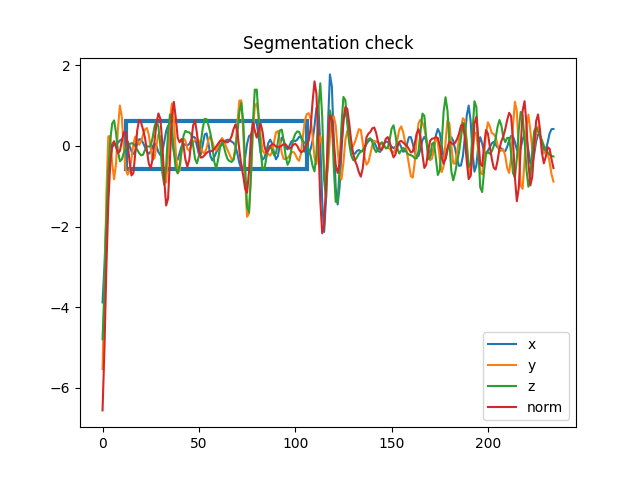
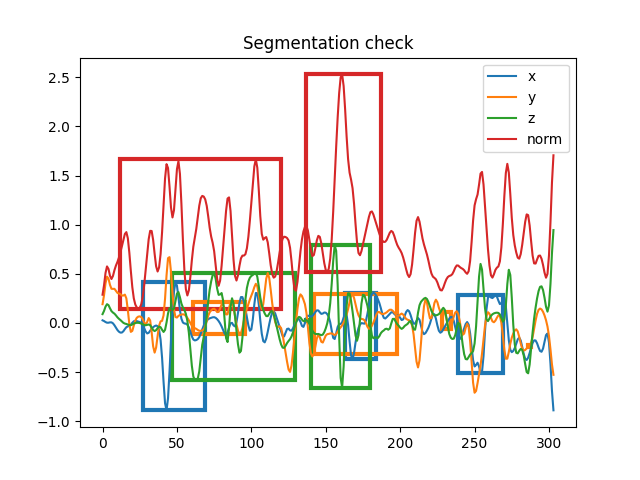
draft of function fo merging rectangle

diff --git a/main.py b/main.py
@@ -3,34 +3,40 @@ import mathsUtils as MATH
 import numpy as np
 import signalUtils as SIGNAL
 
-normalised_timestamp_acc, x_accel, y_accel, z_accel, x_gyros, y_gyros, z_gyros = TXT.reading_into_txt(
-        "data/unsegmented/S1/Recorder_2019_04_03_16_35/data.txt")
-freq = 100 # based on documentaion
-smoothing_factor = 12
-down_sampling_factor = freq // 30  # 100Hz to 30Hz
+if __name__ == "__main__":
 
-# PARAMETERS FOR THE REST OF THE CODE
-window_size = 20  # Size of the moving window for computing mean and standard deviation
-envelopp_multiplier = 3  # Multiplier for the standard deviation to determine the envelopp
-threshold_multiplier = 0.4 # if too low (<0.4), detection check shows ungesture instead of gesture, if too high, gesture are too much segmented
+        normalised_timestamp_acc, x_accel, y_accel, z_accel, x_gyros, y_gyros, z_gyros = TXT.reading_into_txt(
+                "data/unsegmented/S1/Recorder_2019_04_03_16_10/data.txt")
+        freq = 100 # based on documentaion
+        smoothing_factor = 12
+        down_sampling_factor = freq // 30  # 100Hz to 30Hz
 
-sigma = 2
+        # PARAMETERS FOR THE REST OF THE CODE
+        window_size = 30  # Size of the moving window for computing mean and standard deviation
+        envelopp_multiplier = 3  # Multiplier for the standard deviation to determine the envelopp
+        threshold_multiplier = 0.4 # if too low (<0.4), detection check shows ungesture instead of gesture, if too high, gesture are too much segmented
 
-# COMPUTATION
-downsampled_x_accel, downsampled_y_accel, downsampled_z_accel, num_samples = MATH.smooth_signal(x_accel, y_accel, z_accel,
-                                                                                                smoothing_factor, down_sampling_factor)
-downsampled_x_gyros, downsampled_y_gyros, downsampled_z_gyros, num_samples = MATH.smooth_signal(x_gyros, y_gyros, z_gyros,
-                                                                                                smoothing_factor, down_sampling_factor)
+        sigma = 2
+
+        # COMPUTATION
+        downsampled_x_accel, downsampled_y_accel, downsampled_z_accel, num_samples = MATH.smooth_signal(x_accel, y_accel, z_accel,
+                                                                                                        smoothing_factor, down_sampling_factor)
+        downsampled_x_gyros, downsampled_y_gyros, downsampled_z_gyros, num_samples = MATH.smooth_signal(x_gyros, y_gyros, z_gyros,
+                                                                                                        smoothing_factor, down_sampling_factor)
 
 
-# Calculate the corresponding timestamp for the downsampled data
-original_timestamp = np.linspace(0, num_samples / freq, num_samples)
-downsampled_timestamp = original_timestamp[::smoothing_factor][::down_sampling_factor]
+        # Calculate the corresponding timestamp for the downsampled data
+        original_timestamp = np.linspace(0, num_samples / freq, num_samples)
+        downsampled_timestamp = original_timestamp[::smoothing_factor][::down_sampling_factor]
 
-SIGNAL.all_calculations(downsampled_x_accel, downsampled_y_accel, downsampled_z_accel,
-                        downsampled_timestamp, sigma, window_size,
-                        envelopp_multiplier, threshold_multiplier)
+        # SEGMENTATION
+        start_accel1, end_accel1, start_accel2, end_accel2 = SIGNAL.all_calculations(downsampled_x_accel, downsampled_y_accel, downsampled_z_accel,
+                                downsampled_timestamp, sigma, window_size,
+                                envelopp_multiplier, threshold_multiplier)
 
-SIGNAL.all_calculations(downsampled_x_gyros, downsampled_y_gyros, downsampled_z_gyros,
-                        downsampled_timestamp, sigma, window_size,
-                        envelopp_multiplier, threshold_multiplier)
+        SIGNAL.all_calculations(downsampled_x_gyros, downsampled_y_gyros, downsampled_z_gyros,
+                                downsampled_timestamp, sigma, window_size,
+                                envelopp_multiplier, threshold_multiplier)
+
+        test_start, test_end = MATH.merge_rectangles([start_accel1, end_accel1], [start_accel2, end_accel2])
+        print(test_start, test_end)

diff --git a/mathsUtils.py b/mathsUtils.py
@@ -1,5 +1,6 @@
 from scipy.ndimage import gaussian_filter1d
 import numpy as np
+from typing import List, Tuple
 
 def derivative_3_data(normalised_timestamp_acc, x_accel, y_accel, z_accel):
     x_derivative = []
@@ -38,10 +39,9 @@ def derivative(normalised_timestamp_acc, x_accel):
 
 def simple_segmentation(downsampled_timestamp, signal, sigma, window_size, envelopp_multiplier, threshold_multiplier):
     # Derivate the normalised data
-    signal_derivative = derivative(downsampled_timestamp, signal)
-
-    signal_derivative = derivative(downsampled_timestamp, signal_derivative)
-
+    #signal_derivative = derivative(downsampled_timestamp, signal)
+    #signal_derivative = derivative(downsampled_timestamp, signal_derivative)
+    signal_derivative = signal
 
     # Filtering with Gaussian filter the derivated data
     norm_gaussian = gaussian_filter1d(signal_derivative, sigma)
@@ -90,3 +90,17 @@ def smooth_signal(x_accel, y_accel, z_accel, smoothing_factor, down_sampling_fac
     downsampled_z_accel = smoothed_z_accel[::down_sampling_factor]
 
     return downsampled_x_accel, downsampled_y_accel, downsampled_z_accel, num_samples
+
+def merge_rectangles(segment_start, segment_end):
+    new_segment_end = []
+    new_segment_start = []
+    if segment_start[1] < segment_end[0]:
+        new_segment_start = segment_start[0]
+        new_segment_end = segment_end[1]
+    elif segment_start[0] < segment_end[1]:
+        new_segment_start = segment_start[1]
+        new_segment_end = segment_end[0]
+    return new_segment_start, new_segment_end
+
+def rectangle_segmentation(window_size, rectangle_amount):
+    pass

diff --git a/data/protocol.py b/data/protocol.py
@@ -1,0 +1,23 @@
+from random import randrange
+
+def generate_protocol(sequence_number: int, subject_number: int, gesture_number: int):
+    for subject in range(0, subject_number):
+        for sequence_num in range(1, sequence_number):
+            sequence = []
+            random_gesture_count = randrange(0, gesture_number) # number of gestures to be done in 1 sequence
+            for gesture_num in range(0, random_gesture_count):
+                sequence.append(randrange(0, gesture_number) + 1) # creation of the sequence
+            print(f"subject no. {subject + 1} : {sequence}")
+
+
+if __name__ == "__main__":
+    sequence_number = 12
+    subject_number = 10
+    gesture_number = 12
+
+    generate_protocol(sequence_number, subject_number, gesture_number)
+    print(f"number of sequences : {sequence_number * subject_number}")
+
+
+
+

diff --git a/signalUtils.py b/signalUtils.py
@@ -48,3 +48,5 @@ def all_calculations(downsampled_x_accel, downsampled_y_accel, downsampled_z_acc
                             [start_xaccel,start_yaccel, start_zaccel, start_norm],
                             [end_xaccel, end_yaccel, end_zaccel, end_norm],
                             False)
+    
+    return start_xaccel[0], end_xaccel[0], start_xaccel[1], end_xaccel[1]
